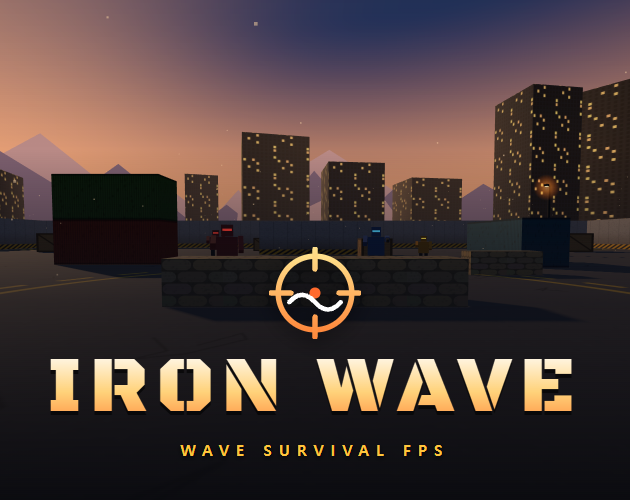
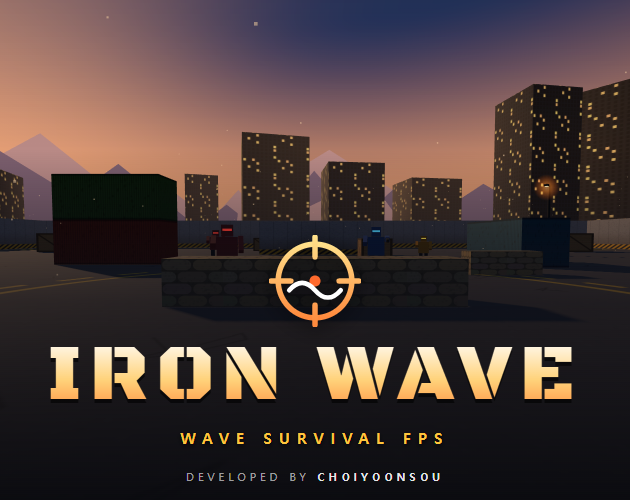
개발자 표기 추가 (커버, 시작 화면)

Changed region(s): [[0.4222, 0.45, 0.9048, 0.84], [0.0603, 0.69, 0.4524, 0.84], [0.2714, 0.87, 0.7238, 0.96]]

diff --git a/index.html b/index.html
@@ -90,6 +90,8 @@ background: rgba(6, 9, 12, 0.72); backdrop-filter: blur(3px); padding: 16px; }
 .screen { max-width: 760px; width: 100%; text-align: center; }
 .screen h1 { font-size: 64px; letter-spacing: 10px; margin: 0 0 4px; font-family: "Black Ops One", system-ui, sans-serif; font-weight: 400;
 background: linear-gradient(180deg, #fff 0%, #ffd27a 55%, #ff8a3d 100%); -webkit-background-clip: text; background-clip: text; color: transparent; }
+.credit { margin: 22px 0 0; font-size: 12px; letter-spacing: 2px; color: var(--muted); }
+.credit b { color: var(--text); }
 .logo-mark { width: 84px; height: 84px; margin: 0 auto 6px; display: block; }
 .screen h2 { font-size: 34px; margin: 0 0 6px; letter-spacing: 3px; }
 .screen p.sub { color: var(--muted); margin: 0 0 24px; }
@@ -267,6 +269,7 @@ text-align: center; font-size: 18px; padding: 24px; line-height: 1.6; }
 <div><kbd>Esc</kbd>일시정지</div>
 </div>
 <button class="big" id="btnStart">게임 시작</button>
+<p class="credit">Developed by <b>Choiyoonsou</b></p>
 </div>
 <div id="scr-pause" class="screen hidden">
 <h2>일시정지</h2>
